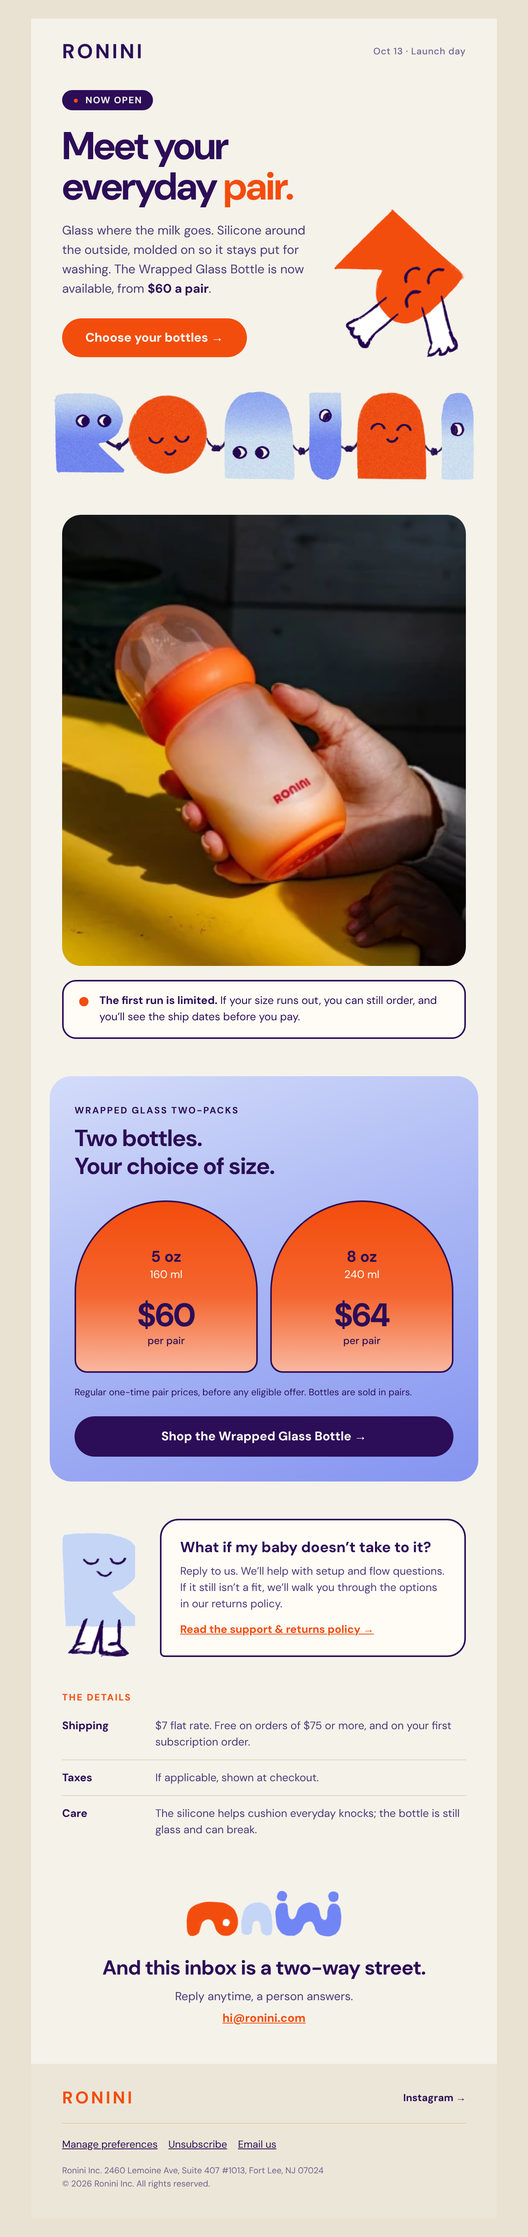
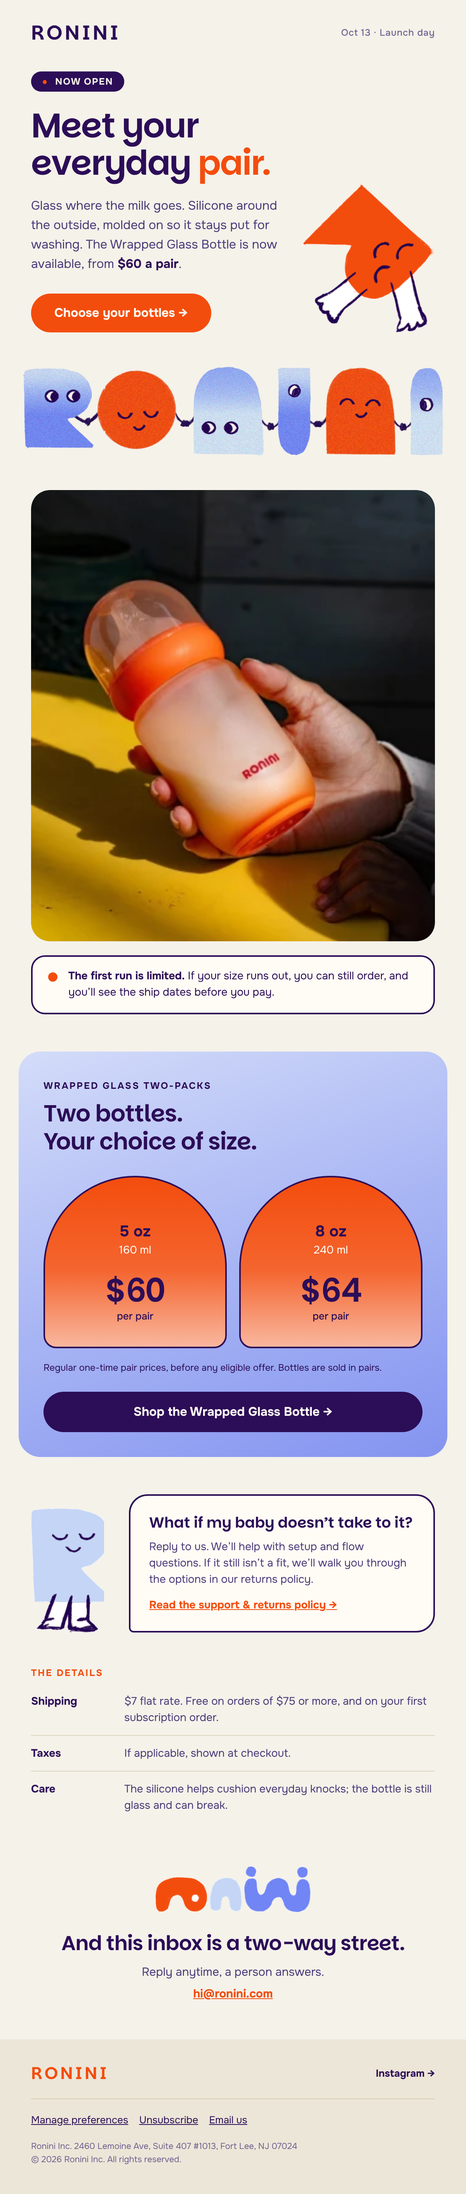
Switch 06-open EDMs to brand fonts and refresh renders after Figma handoff
Claude-Session: https://claude.ai/code/session_01THV4qqvSeac34UZQhCRjNN

diff --git a/edm/06-open/index.html b/edm/06-open/index.html
@@ -9,7 +9,7 @@
 <meta name="supported-color-schemes" content="light">
 <title>Meet your everyday pair</title>
 <!--[if mso]><noscript><xml><o:OfficeDocumentSettings><o:PixelsPerInch>96</o:PixelsPerInch></o:OfficeDocumentSettings></xml></noscript><![endif]-->
-<link href="https://fonts.googleapis.com/css2?family=DM+Sans:opsz,wght@9..40,400;9..40,500;9..40,700&display=swap" rel="stylesheet">
+<link href="https://fonts.googleapis.com/css2?family=Onest:wght@400;500;600;700&family=Parkinsans:wght@500;600;700&display=swap" rel="stylesheet">
 <style>
   /* Palette: navy #2C0D57 · orange #F34D0D · periwinkle #7084F4 · sky #C6D6F7 · cream #F5F2EA · paper #FFFCF6 */
   body, table, td, a { -webkit-text-size-adjust: 100%; -ms-text-size-adjust: 100%; }
@@ -42,17 +42,17 @@
 <table role="presentation" width="100%" cellpadding="0" cellspacing="0" border="0" style="background:#E9E2D2;">
 <tr><td align="center" style="padding:24px 0;">
 
-<table role="presentation" class="container" width="600" cellpadding="0" cellspacing="0" border="0" style="width:600px;background:#F5F2EA;font-family:'DM Sans',Helvetica,Arial,sans-serif;color:#2C0D57;">
+<table role="presentation" class="container" width="600" cellpadding="0" cellspacing="0" border="0" style="width:600px;background:#F5F2EA;font-family:'Onest',Helvetica,Arial,sans-serif;color:#2C0D57;">
 
   <!-- ============ HEADER ============ -->
   <tr>
     <td class="px" style="padding:28px 40px 0 40px;">
       <table role="presentation" width="100%" cellpadding="0" cellspacing="0" border="0">
         <tr>
-          <td align="left" style="font-family:'DM Sans',Helvetica,Arial,sans-serif;font-size:26px;line-height:28px;font-weight:700;letter-spacing:3px;color:#2C0D57;">
+          <td align="left" style="font-family:'Parkinsans',Helvetica,Arial,sans-serif;font-size:26px;line-height:28px;font-weight:600;letter-spacing:3px;color:#2C0D57;">
             <a href="[[HOME_URL]]" style="color:#2C0D57;text-decoration:none;">RONINI</a>
           </td>
-          <td align="right" style="font-family:'DM Sans',Helvetica,Arial,sans-serif;font-size:12px;line-height:16px;font-weight:500;color:#6E6390;letter-spacing:0.5px;">
+          <td align="right" style="font-family:'Onest',Helvetica,Arial,sans-serif;font-size:12px;line-height:16px;font-weight:500;color:#6E6390;letter-spacing:0.5px;">
             Oct 13 &middot; Launch day
           </td>
         </tr>
@@ -69,22 +69,22 @@
             <!-- pill -->
             <table role="presentation" cellpadding="0" cellspacing="0" border="0">
               <tr>
-                <td style="background:#2C0D57;border-radius:999px;padding:6px 14px;font-family:'DM Sans',Helvetica,Arial,sans-serif;font-size:12px;line-height:14px;font-weight:700;letter-spacing:1px;text-transform:uppercase;color:#F5F2EA;">
+                <td style="background:#2C0D57;border-radius:999px;padding:6px 14px;font-family:'Onest',Helvetica,Arial,sans-serif;font-size:12px;line-height:14px;font-weight:700;letter-spacing:1px;text-transform:uppercase;color:#F5F2EA;">
                   <span style="color:#F34D0D;">&#9679;</span>&nbsp; Now open
                 </td>
               </tr>
             </table>
-            <h1 class="h1" style="margin:20px 0 0 0;font-family:'DM Sans',Helvetica,Arial,sans-serif;font-size:50px;line-height:52px;font-weight:700;letter-spacing:-1.5px;color:#2C0D57;">
+            <h1 class="h1" style="margin:20px 0 0 0;font-family:'Parkinsans',Helvetica,Arial,sans-serif;font-size:44px;line-height:48px;font-weight:600;letter-spacing:-1.2px;color:#2C0D57;">
               Meet your<br>everyday <span style="color:#F34D0D;">pair.</span>
             </h1>
-            <p style="margin:18px 0 0 0;font-family:'DM Sans',Helvetica,Arial,sans-serif;font-size:16px;line-height:25px;color:#4B3A78;">
+            <p style="margin:18px 0 0 0;font-family:'Onest',Helvetica,Arial,sans-serif;font-size:16px;line-height:25px;color:#4B3A78;">
               Glass where the milk goes. Silicone around the outside, molded on so it stays put for washing. The Wrapped Glass Bottle is now available, from <strong style="color:#2C0D57;">$60 a pair</strong>.
             </p>
             <!-- CTA -->
             <table role="presentation" cellpadding="0" cellspacing="0" border="0" style="margin-top:26px;">
               <tr>
                 <td align="center" bgcolor="#F34D0D" style="border-radius:999px;">
-                  <a href="[[SHOP_URL]]" style="display:inline-block;padding:16px 30px;font-family:'DM Sans',Helvetica,Arial,sans-serif;font-size:16px;line-height:18px;font-weight:700;color:#FFFCF6;text-decoration:none;border-radius:999px;">Choose your bottles &rarr;</a>
+                  <a href="[[SHOP_URL]]" style="display:inline-block;padding:16px 30px;font-family:'Onest',Helvetica,Arial,sans-serif;font-size:16px;line-height:18px;font-weight:700;color:#FFFCF6;text-decoration:none;border-radius:999px;">Choose your bottles &rarr;</a>
                 </td>
               </tr>
             </table>
@@ -110,7 +110,7 @@
       <table role="presentation" width="100%" cellpadding="0" cellspacing="0" border="0">
         <tr>
           <td style="border-radius:24px;overflow:hidden;background:#C6D6F7;line-height:0;font-size:0;">
-            <a href="[[SHOP_URL]]"><img src="[[PRODUCT_IMAGE_URL]]" width="520" alt="A hand holding the Ronini Wrapped Glass Bottle with its orange silicone sleeve" class="full" style="width:520px;max-width:100%;height:auto;border-radius:24px;font-family:'DM Sans',Helvetica,Arial,sans-serif;font-size:14px;line-height:20px;color:#2C0D57;"></a>
+            <a href="[[SHOP_URL]]"><img src="[[PRODUCT_IMAGE_URL]]" width="520" alt="A hand holding the Ronini Wrapped Glass Bottle with its orange silicone sleeve" class="full" style="width:520px;max-width:100%;height:auto;border-radius:24px;font-family:'Onest',Helvetica,Arial,sans-serif;font-size:14px;line-height:20px;color:#2C0D57;"></a>
           </td>
         </tr>
       </table>
@@ -125,7 +125,7 @@
           <td width="14" valign="top" style="padding:20px 0 0 20px;">
             <div style="width:12px;height:12px;border-radius:12px;background:#F34D0D;font-size:0;line-height:0;">&nbsp;</div>
           </td>
-          <td valign="top" style="padding:14px 20px 16px 12px;font-family:'DM Sans',Helvetica,Arial,sans-serif;font-size:14px;line-height:21px;color:#2C0D57;">
+          <td valign="top" style="padding:14px 20px 16px 12px;font-family:'Onest',Helvetica,Arial,sans-serif;font-size:14px;line-height:21px;color:#2C0D57;">
             <strong>The first run is limited.</strong> If your size runs out, you can still order, and you&rsquo;ll see the ship dates before you pay.
           </td>
         </tr>
@@ -139,8 +139,8 @@
       <table role="presentation" width="100%" cellpadding="0" cellspacing="0" border="0" style="background-color:#A9B6F4;background-image:linear-gradient(160deg,#D3DCF9 0%,#A9B6F4 50%,#8494F0 100%);border-radius:28px;">
         <tr>
           <td class="panel" style="padding:36px 32px 32px 32px;">
-            <p style="margin:0;font-family:'DM Sans',Helvetica,Arial,sans-serif;font-size:12px;line-height:16px;font-weight:700;letter-spacing:1.5px;text-transform:uppercase;color:#2C0D57;">Wrapped Glass two-packs</p>
-            <h2 class="h2" style="margin:10px 0 0 0;font-family:'DM Sans',Helvetica,Arial,sans-serif;font-size:30px;line-height:36px;font-weight:700;letter-spacing:-0.6px;color:#2C0D57;">Two bottles.<br>Your choice of size.</h2>
+            <p style="margin:0;font-family:'Onest',Helvetica,Arial,sans-serif;font-size:12px;line-height:16px;font-weight:700;letter-spacing:1.5px;text-transform:uppercase;color:#2C0D57;">Wrapped Glass two-packs</p>
+            <h2 class="h2" style="margin:10px 0 0 0;font-family:'Parkinsans',Helvetica,Arial,sans-serif;font-size:30px;line-height:36px;font-weight:600;letter-spacing:-0.6px;color:#2C0D57;">Two bottles.<br>Your choice of size.</h2>
 
             <table role="presentation" width="100%" cellpadding="0" cellspacing="0" border="0" style="margin-top:26px;">
               <tr>
@@ -149,10 +149,10 @@
                   <table role="presentation" width="100%" cellpadding="0" cellspacing="0" border="0" style="background-color:#F34D0D;background-image:linear-gradient(180deg,#F34D0D 0%,#F4652F 55%,#F9B79E 100%);border:2px solid #2C0D57;border-radius:130px 130px 18px 18px;">
                     <tr>
                       <td align="center" style="padding:58px 16px 30px 16px;">
-                        <p style="margin:0;font-family:'DM Sans',Helvetica,Arial,sans-serif;font-size:20px;line-height:24px;font-weight:700;color:#2C0D57;">5 oz</p>
-                        <p style="margin:2px 0 0 0;font-family:'DM Sans',Helvetica,Arial,sans-serif;font-size:14px;line-height:18px;color:#FFFCF6;">160 ml</p>
-                        <p style="margin:22px 0 0 0;font-family:'DM Sans',Helvetica,Arial,sans-serif;font-size:42px;line-height:44px;font-weight:700;letter-spacing:-1.2px;color:#2C0D57;">$60</p>
-                        <p style="margin:2px 0 0 0;font-family:'DM Sans',Helvetica,Arial,sans-serif;font-size:13px;line-height:18px;font-weight:500;color:#2C0D57;">per pair</p>
+                        <p style="margin:0;font-family:'Onest',Helvetica,Arial,sans-serif;font-size:20px;line-height:24px;font-weight:700;color:#2C0D57;">5 oz</p>
+                        <p style="margin:2px 0 0 0;font-family:'Onest',Helvetica,Arial,sans-serif;font-size:14px;line-height:18px;color:#FFFCF6;">160 ml</p>
+                        <p style="margin:22px 0 0 0;font-family:'Parkinsans',Helvetica,Arial,sans-serif;font-size:42px;line-height:44px;font-weight:600;letter-spacing:-1.2px;color:#2C0D57;">$60</p>
+                        <p style="margin:2px 0 0 0;font-family:'Onest',Helvetica,Arial,sans-serif;font-size:13px;line-height:18px;font-weight:500;color:#2C0D57;">per pair</p>
                       </td>
                     </tr>
                   </table>
@@ -162,10 +162,10 @@
                   <table role="presentation" width="100%" cellpadding="0" cellspacing="0" border="0" style="background-color:#F34D0D;background-image:linear-gradient(180deg,#F34D0D 0%,#F4652F 55%,#F9B79E 100%);border:2px solid #2C0D57;border-radius:130px 130px 18px 18px;">
                     <tr>
                       <td align="center" style="padding:58px 16px 30px 16px;">
-                        <p style="margin:0;font-family:'DM Sans',Helvetica,Arial,sans-serif;font-size:20px;line-height:24px;font-weight:700;color:#2C0D57;">8 oz</p>
-                        <p style="margin:2px 0 0 0;font-family:'DM Sans',Helvetica,Arial,sans-serif;font-size:14px;line-height:18px;color:#FFFCF6;">240 ml</p>
-                        <p style="margin:22px 0 0 0;font-family:'DM Sans',Helvetica,Arial,sans-serif;font-size:42px;line-height:44px;font-weight:700;letter-spacing:-1.2px;color:#2C0D57;">$64</p>
-                        <p style="margin:2px 0 0 0;font-family:'DM Sans',Helvetica,Arial,sans-serif;font-size:13px;line-height:18px;font-weight:500;color:#2C0D57;">per pair</p>
+                        <p style="margin:0;font-family:'Onest',Helvetica,Arial,sans-serif;font-size:20px;line-height:24px;font-weight:700;color:#2C0D57;">8 oz</p>
+                        <p style="margin:2px 0 0 0;font-family:'Onest',Helvetica,Arial,sans-serif;font-size:14px;line-height:18px;color:#FFFCF6;">240 ml</p>
+                        <p style="margin:22px 0 0 0;font-family:'Parkinsans',Helvetica,Arial,sans-serif;font-size:42px;line-height:44px;font-weight:600;letter-spacing:-1.2px;color:#2C0D57;">$64</p>
+                        <p style="margin:2px 0 0 0;font-family:'Onest',Helvetica,Arial,sans-serif;font-size:13px;line-height:18px;font-weight:500;color:#2C0D57;">per pair</p>
                       </td>
                     </tr>
                   </table>
@@ -173,13 +173,13 @@
               </tr>
             </table>
 
-            <p style="margin:16px 0 0 0;font-family:'DM Sans',Helvetica,Arial,sans-serif;font-size:12px;line-height:18px;color:#2C0D57;">
+            <p style="margin:16px 0 0 0;font-family:'Onest',Helvetica,Arial,sans-serif;font-size:12px;line-height:18px;color:#2C0D57;">
               Regular one-time pair prices, before any eligible offer. Bottles are sold in pairs.
             </p>
             <table role="presentation" cellpadding="0" cellspacing="0" border="0" width="100%" style="margin-top:22px;">
               <tr>
                 <td align="center" bgcolor="#2C0D57" style="border-radius:999px;">
-                  <a href="[[SHOP_URL]]" style="display:block;padding:17px 24px;font-family:'DM Sans',Helvetica,Arial,sans-serif;font-size:16px;line-height:18px;font-weight:700;color:#FFFCF6;text-decoration:none;border-radius:999px;">Shop the Wrapped Glass Bottle &rarr;</a>
+                  <a href="[[SHOP_URL]]" style="display:block;padding:17px 24px;font-family:'Onest',Helvetica,Arial,sans-serif;font-size:16px;line-height:18px;font-weight:700;color:#FFFCF6;text-decoration:none;border-radius:999px;">Shop the Wrapped Glass Bottle &rarr;</a>
                 </td>
               </tr>
             </table>
@@ -201,11 +201,11 @@
             <table role="presentation" width="100%" cellpadding="0" cellspacing="0" border="0" style="background:#FFFCF6;border:2px solid #2C0D57;border-radius:24px 24px 24px 6px;">
               <tr>
                 <td style="padding:22px 24px 24px 24px;">
-                  <h3 style="margin:0;font-family:'DM Sans',Helvetica,Arial,sans-serif;font-size:19px;line-height:25px;font-weight:700;color:#2C0D57;">What if my baby doesn&rsquo;t take to it?</h3>
-                  <p style="margin:8px 0 0 0;font-family:'DM Sans',Helvetica,Arial,sans-serif;font-size:14px;line-height:21px;color:#4B3A78;">
+                  <h3 style="margin:0;font-family:'Parkinsans',Helvetica,Arial,sans-serif;font-size:19px;line-height:25px;font-weight:600;color:#2C0D57;">What if my baby doesn&rsquo;t take to it?</h3>
+                  <p style="margin:8px 0 0 0;font-family:'Onest',Helvetica,Arial,sans-serif;font-size:14px;line-height:21px;color:#4B3A78;">
                     Reply to us. We&rsquo;ll help with setup and flow questions. If it still isn&rsquo;t a fit, we&rsquo;ll walk you through the options in our returns policy.
                   </p>
-                  <p style="margin:12px 0 0 0;font-family:'DM Sans',Helvetica,Arial,sans-serif;font-size:14px;line-height:20px;font-weight:700;">
+                  <p style="margin:12px 0 0 0;font-family:'Onest',Helvetica,Arial,sans-serif;font-size:14px;line-height:20px;font-weight:700;">
                     <a href="[[RETURNS_URL]]" style="color:#F34D0D;text-decoration:underline;">Read the support &amp; returns policy &rarr;</a>
                   </p>
                 </td>
@@ -220,8 +220,8 @@
   <!-- ============ DETAILS ============ -->
   <tr>
     <td class="px" style="padding:44px 40px 0 40px;">
-      <p style="margin:0 0 6px 0;font-family:'DM Sans',Helvetica,Arial,sans-serif;font-size:12px;line-height:16px;font-weight:700;letter-spacing:1.5px;text-transform:uppercase;color:#F34D0D;">The details</p>
-      <table role="presentation" width="100%" cellpadding="0" cellspacing="0" border="0" style="font-family:'DM Sans',Helvetica,Arial,sans-serif;font-size:14px;line-height:21px;color:#2C0D57;">
+      <p style="margin:0 0 6px 0;font-family:'Onest',Helvetica,Arial,sans-serif;font-size:12px;line-height:16px;font-weight:700;letter-spacing:1.5px;text-transform:uppercase;color:#F34D0D;">The details</p>
+      <table role="presentation" width="100%" cellpadding="0" cellspacing="0" border="0" style="font-family:'Onest',Helvetica,Arial,sans-serif;font-size:14px;line-height:21px;color:#2C0D57;">
         <tr>
           <td width="120" valign="top" style="padding:12px 0;border-bottom:1px solid #DDD4C0;font-weight:700;">Shipping</td>
           <td valign="top" style="padding:12px 0;border-bottom:1px solid #DDD4C0;color:#4B3A78;">$7 flat rate. Free on orders of $75 or more, and on your first subscription order.</td>
@@ -242,11 +242,11 @@
   <tr>
     <td class="px" align="center" style="padding:56px 40px 48px 40px;">
       <img src="assets/bubble-wordmark.png" width="200" height="59" alt="" style="width:200px;height:59px;margin:0 auto;">
-      <h3 class="h2" style="margin:24px 0 0 0;font-family:'DM Sans',Helvetica,Arial,sans-serif;font-size:26px;line-height:32px;font-weight:700;letter-spacing:-0.5px;color:#2C0D57;">And this inbox is a two-way street.</h3>
-      <p style="margin:10px 0 0 0;font-family:'DM Sans',Helvetica,Arial,sans-serif;font-size:15px;line-height:22px;color:#4B3A78;">
+      <h3 class="h2" style="margin:24px 0 0 0;font-family:'Parkinsans',Helvetica,Arial,sans-serif;font-size:26px;line-height:32px;font-weight:600;letter-spacing:-0.5px;color:#2C0D57;">And this inbox is a two-way street.</h3>
+      <p style="margin:10px 0 0 0;font-family:'Onest',Helvetica,Arial,sans-serif;font-size:15px;line-height:22px;color:#4B3A78;">
         Reply anytime, a person answers.
       </p>
-      <p style="margin:6px 0 0 0;font-family:'DM Sans',Helvetica,Arial,sans-serif;font-size:15px;line-height:22px;font-weight:700;">
+      <p style="margin:6px 0 0 0;font-family:'Onest',Helvetica,Arial,sans-serif;font-size:15px;line-height:22px;font-weight:700;">
         <a href="mailto:hi@ronini.com" style="color:#F34D0D;text-decoration:underline;">hi@ronini.com</a>
       </p>
     </td>
@@ -257,8 +257,8 @@
     <td class="px" style="padding:32px 40px 36px 40px;background:#ECE6D8;">
       <table role="presentation" width="100%" cellpadding="0" cellspacing="0" border="0">
         <tr>
-          <td align="left" style="font-family:'DM Sans',Helvetica,Arial,sans-serif;font-size:22px;line-height:24px;font-weight:700;letter-spacing:3px;color:#F34D0D;">RONINI</td>
-          <td align="right" style="font-family:'DM Sans',Helvetica,Arial,sans-serif;font-size:13px;line-height:16px;font-weight:700;">
+          <td align="left" style="font-family:'Parkinsans',Helvetica,Arial,sans-serif;font-size:22px;line-height:24px;font-weight:600;letter-spacing:3px;color:#F34D0D;">RONINI</td>
+          <td align="right" style="font-family:'Onest',Helvetica,Arial,sans-serif;font-size:13px;line-height:16px;font-weight:700;">
             <a href="[[INSTAGRAM_URL]]" style="color:#2C0D57;text-decoration:none;">Instagram &rarr;</a>
           </td>
         </tr>
@@ -266,14 +266,14 @@
           <td colspan="2" style="padding-top:20px;border-bottom:1px solid #D6CCB6;font-size:0;line-height:0;">&nbsp;</td>
         </tr>
         <tr>
-          <td colspan="2" style="padding-top:18px;font-family:'DM Sans',Helvetica,Arial,sans-serif;font-size:13px;line-height:18px;">
+          <td colspan="2" style="padding-top:18px;font-family:'Onest',Helvetica,Arial,sans-serif;font-size:13px;line-height:18px;">
             <a href="[[PREFERENCES_URL]]" style="color:#2C0D57;text-decoration:underline;">Manage preferences</a>&nbsp;&nbsp;&nbsp;
             <a href="[[UNSUBSCRIBE_URL]]" style="color:#2C0D57;text-decoration:underline;">Unsubscribe</a>&nbsp;&nbsp;&nbsp;
             <a href="mailto:hi@ronini.com" style="color:#2C0D57;text-decoration:underline;">Email us</a>
           </td>
         </tr>
         <tr>
-          <td colspan="2" style="padding-top:16px;font-family:'DM Sans',Helvetica,Arial,sans-serif;font-size:11px;line-height:17px;color:#6E6390;">
+          <td colspan="2" style="padding-top:16px;font-family:'Onest',Helvetica,Arial,sans-serif;font-size:11px;line-height:17px;color:#6E6390;">
             Ronini Inc. 2460 Lemoine Ave, Suite 407 #1013, Fort Lee, NJ 07024<br>
             &copy; 2026 Ronini Inc. All rights reserved.
           </td>

diff --git a/edm/06-open-navy/index.html b/edm/06-open-navy/index.html
@@ -9,7 +9,7 @@
 <meta name="supported-color-schemes" content="light">
 <title>Meet your everyday pair</title>
 <!--[if mso]><noscript><xml><o:OfficeDocumentSettings><o:PixelsPerInch>96</o:PixelsPerInch></o:OfficeDocumentSettings></xml></noscript><![endif]-->
-<link href="https://fonts.googleapis.com/css2?family=DM+Sans:opsz,wght@9..40,400;9..40,500;9..40,700&display=swap" rel="stylesheet">
+<link href="https://fonts.googleapis.com/css2?family=Onest:wght@400;500;600;700&family=Parkinsans:wght@500;600;700&display=swap" rel="stylesheet">
 <style>
   /* Palette: navy #2C0D57 · orange #F34D0D · periwinkle #7084F4 · sky #C6D6F7 · cream #F7F3E8 · paper #FFFCF5 */
   body, table, td, a { -webkit-text-size-adjust: 100%; -ms-text-size-adjust: 100%; }
@@ -40,17 +40,17 @@
 <table role="presentation" width="100%" cellpadding="0" cellspacing="0" border="0" style="background:#EDE7D8;">
 <tr><td align="center" style="padding:24px 0;">
 
-<table role="presentation" class="container" width="600" cellpadding="0" cellspacing="0" border="0" style="width:600px;background:#FFFCF5;font-family:'DM Sans',Helvetica,Arial,sans-serif;color:#2C0D57;">
+<table role="presentation" class="container" width="600" cellpadding="0" cellspacing="0" border="0" style="width:600px;background:#FFFCF5;font-family:'Onest',Helvetica,Arial,sans-serif;color:#2C0D57;">
 
   <!-- ============ HEADER ============ -->
   <tr>
     <td class="px" style="padding:28px 40px 24px 40px;background:#2C0D57;">
       <table role="presentation" width="100%" cellpadding="0" cellspacing="0" border="0">
         <tr>
-          <td align="left" style="font-family:'DM Sans',Helvetica,Arial,sans-serif;font-size:26px;line-height:28px;font-weight:700;letter-spacing:3px;color:#F34D0D;">
+          <td align="left" style="font-family:'Parkinsans',Helvetica,Arial,sans-serif;font-size:26px;line-height:28px;font-weight:600;letter-spacing:3px;color:#F34D0D;">
             <a href="[[HOME_URL]]" style="color:#F34D0D;text-decoration:none;">RONINI</a>
           </td>
-          <td align="right" style="font-family:'DM Sans',Helvetica,Arial,sans-serif;font-size:12px;line-height:16px;font-weight:500;color:#C6D6F7;letter-spacing:0.5px;">
+          <td align="right" style="font-family:'Onest',Helvetica,Arial,sans-serif;font-size:12px;line-height:16px;font-weight:500;color:#C6D6F7;letter-spacing:0.5px;">
             Oct 13 &middot; Launch day
           </td>
         </tr>
@@ -67,22 +67,22 @@
             <!-- pill -->
             <table role="presentation" cellpadding="0" cellspacing="0" border="0">
               <tr>
-                <td style="background:#F34D0D;border-radius:999px;padding:6px 14px;font-family:'DM Sans',Helvetica,Arial,sans-serif;font-size:12px;line-height:14px;font-weight:700;letter-spacing:1px;text-transform:uppercase;color:#FFFCF5;">
+                <td style="background:#F34D0D;border-radius:999px;padding:6px 14px;font-family:'Onest',Helvetica,Arial,sans-serif;font-size:12px;line-height:14px;font-weight:700;letter-spacing:1px;text-transform:uppercase;color:#FFFCF5;">
                   &#9679;&nbsp; Now open
                 </td>
               </tr>
             </table>
-            <h1 class="h1" style="margin:22px 0 0 0;font-family:'DM Sans',Helvetica,Arial,sans-serif;font-size:50px;line-height:52px;font-weight:700;letter-spacing:-1.5px;color:#FFFCF5;">
+            <h1 class="h1" style="margin:22px 0 0 0;font-family:'Parkinsans',Helvetica,Arial,sans-serif;font-size:50px;line-height:52px;font-weight:600;letter-spacing:-1.5px;color:#FFFCF5;">
               Meet your<br>everyday <span style="color:#7084F4;">pair.</span>
             </h1>
-            <p style="margin:20px 0 0 0;font-family:'DM Sans',Helvetica,Arial,sans-serif;font-size:16px;line-height:25px;color:#C6D6F7;">
+            <p style="margin:20px 0 0 0;font-family:'Onest',Helvetica,Arial,sans-serif;font-size:16px;line-height:25px;color:#C6D6F7;">
               Glass where the milk goes. Silicone around the outside, molded on so it stays put for washing. The Wrapped Glass Bottle is now available, from <strong style="color:#FFFCF5;">$60 a pair</strong>.
             </p>
             <!-- CTA -->
             <table role="presentation" cellpadding="0" cellspacing="0" border="0" style="margin-top:28px;">
               <tr>
                 <td align="center" bgcolor="#F34D0D" style="border-radius:999px;">
-                  <a href="[[SHOP_URL]]" style="display:inline-block;padding:16px 30px;font-family:'DM Sans',Helvetica,Arial,sans-serif;font-size:16px;line-height:18px;font-weight:700;color:#FFFCF5;text-decoration:none;border-radius:999px;">Choose your bottles &rarr;</a>
+                  <a href="[[SHOP_URL]]" style="display:inline-block;padding:16px 30px;font-family:'Onest',Helvetica,Arial,sans-serif;font-size:16px;line-height:18px;font-weight:700;color:#FFFCF5;text-decoration:none;border-radius:999px;">Choose your bottles &rarr;</a>
                 </td>
               </tr>
             </table>
@@ -108,7 +108,7 @@
       <table role="presentation" width="100%" cellpadding="0" cellspacing="0" border="0">
         <tr>
           <td style="border-radius:24px;overflow:hidden;background:#C6D6F7;line-height:0;font-size:0;">
-            <a href="[[SHOP_URL]]"><img src="[[PRODUCT_IMAGE_URL]]" width="520" alt="A hand holding the Ronini Wrapped Glass Bottle with its orange silicone sleeve" class="full" style="width:520px;max-width:100%;height:auto;border-radius:24px;font-family:'DM Sans',Helvetica,Arial,sans-serif;font-size:14px;line-height:20px;color:#2C0D57;"></a>
+            <a href="[[SHOP_URL]]"><img src="[[PRODUCT_IMAGE_URL]]" width="520" alt="A hand holding the Ronini Wrapped Glass Bottle with its orange silicone sleeve" class="full" style="width:520px;max-width:100%;height:auto;border-radius:24px;font-family:'Onest',Helvetica,Arial,sans-serif;font-size:14px;line-height:20px;color:#2C0D57;"></a>
           </td>
         </tr>
       </table>
@@ -123,7 +123,7 @@
           <td width="44" valign="top" style="padding:18px 0 18px 18px;">
             <img src="assets/tile-arch.png" width="28" height="28" alt="" style="width:28px;height:28px;border-radius:6px;">
           </td>
-          <td valign="top" style="padding:16px 20px 16px 14px;font-family:'DM Sans',Helvetica,Arial,sans-serif;font-size:14px;line-height:21px;color:#2C0D57;">
+          <td valign="top" style="padding:16px 20px 16px 14px;font-family:'Onest',Helvetica,Arial,sans-serif;font-size:14px;line-height:21px;color:#2C0D57;">
             <strong>The first run is limited.</strong> If your size runs out, you can still order, and you&rsquo;ll see the ship dates before you pay.
           </td>
         </tr>
@@ -134,8 +134,8 @@
   <!-- ============ SIZES ============ -->
   <tr>
     <td class="px" style="padding:52px 40px 0 40px;">
-      <p style="margin:0;font-family:'DM Sans',Helvetica,Arial,sans-serif;font-size:12px;line-height:16px;font-weight:700;letter-spacing:1.5px;text-transform:uppercase;color:#F34D0D;">Wrapped Glass two-packs</p>
-      <h2 class="h2" style="margin:10px 0 0 0;font-family:'DM Sans',Helvetica,Arial,sans-serif;font-size:30px;line-height:36px;font-weight:700;letter-spacing:-0.6px;color:#2C0D57;">Two bottles. Your choice of size.</h2>
+      <p style="margin:0;font-family:'Onest',Helvetica,Arial,sans-serif;font-size:12px;line-height:16px;font-weight:700;letter-spacing:1.5px;text-transform:uppercase;color:#F34D0D;">Wrapped Glass two-packs</p>
+      <h2 class="h2" style="margin:10px 0 0 0;font-family:'Parkinsans',Helvetica,Arial,sans-serif;font-size:30px;line-height:36px;font-weight:600;letter-spacing:-0.6px;color:#2C0D57;">Two bottles. Your choice of size.</h2>
     </td>
   </tr>
   <tr>
@@ -148,8 +148,8 @@
               <tr>
                 <td style="padding:22px 22px 24px 22px;">
                   <img src="assets/tile-circle.png" width="56" height="56" alt="" style="width:56px;height:56px;border-radius:12px;">
-                  <p style="margin:18px 0 0 0;font-family:'DM Sans',Helvetica,Arial,sans-serif;font-size:20px;line-height:24px;font-weight:700;color:#2C0D57;">5 oz <span style="font-weight:400;color:#4B3A78;">/ 160 ml</span></p>
-                  <p style="margin:18px 0 0 0;font-family:'DM Sans',Helvetica,Arial,sans-serif;font-size:34px;line-height:36px;font-weight:700;letter-spacing:-1px;color:#2C0D57;">$60<span style="font-size:14px;font-weight:500;letter-spacing:0;"> / pair</span></p>
+                  <p style="margin:18px 0 0 0;font-family:'Onest',Helvetica,Arial,sans-serif;font-size:20px;line-height:24px;font-weight:700;color:#2C0D57;">5 oz <span style="font-weight:400;color:#4B3A78;">/ 160 ml</span></p>
+                  <p style="margin:18px 0 0 0;font-family:'Parkinsans',Helvetica,Arial,sans-serif;font-size:34px;line-height:36px;font-weight:600;letter-spacing:-1px;color:#2C0D57;">$60<span style="font-size:14px;font-weight:500;letter-spacing:0;"> / pair</span></p>
                 </td>
               </tr>
             </table>
@@ -160,8 +160,8 @@
               <tr>
                 <td style="padding:22px 22px 24px 22px;">
                   <img src="assets/tile-pair.png" width="56" height="56" alt="" style="width:56px;height:56px;border-radius:12px;">
-                  <p style="margin:18px 0 0 0;font-family:'DM Sans',Helvetica,Arial,sans-serif;font-size:20px;line-height:24px;font-weight:700;color:#FFFCF5;">8 oz <span style="font-weight:400;color:#E4EAFC;">/ 240 ml</span></p>
-                  <p style="margin:18px 0 0 0;font-family:'DM Sans',Helvetica,Arial,sans-serif;font-size:34px;line-height:36px;font-weight:700;letter-spacing:-1px;color:#FFFCF5;">$64<span style="font-size:14px;font-weight:500;letter-spacing:0;"> / pair</span></p>
+                  <p style="margin:18px 0 0 0;font-family:'Onest',Helvetica,Arial,sans-serif;font-size:20px;line-height:24px;font-weight:700;color:#FFFCF5;">8 oz <span style="font-weight:400;color:#E4EAFC;">/ 240 ml</span></p>
+                  <p style="margin:18px 0 0 0;font-family:'Parkinsans',Helvetica,Arial,sans-serif;font-size:34px;line-height:36px;font-weight:600;letter-spacing:-1px;color:#FFFCF5;">$64<span style="font-size:14px;font-weight:500;letter-spacing:0;"> / pair</span></p>
                 </td>
               </tr>
             </table>
@@ -171,7 +171,7 @@
     </td>
   </tr>
   <tr>
-    <td class="px" style="padding:14px 40px 0 40px;font-family:'DM Sans',Helvetica,Arial,sans-serif;font-size:12px;line-height:18px;color:#6E6390;">
+    <td class="px" style="padding:14px 40px 0 40px;font-family:'Onest',Helvetica,Arial,sans-serif;font-size:12px;line-height:18px;color:#6E6390;">
       Regular one-time pair prices, before any eligible offer. Bottles are sold in pairs.
     </td>
   </tr>
@@ -180,7 +180,7 @@
       <table role="presentation" cellpadding="0" cellspacing="0" border="0" width="100%">
         <tr>
           <td align="center" bgcolor="#2C0D57" style="border-radius:999px;">
-            <a href="[[SHOP_URL]]" style="display:block;padding:17px 30px;font-family:'DM Sans',Helvetica,Arial,sans-serif;font-size:16px;line-height:18px;font-weight:700;color:#FFFCF5;text-decoration:none;border-radius:999px;">Shop the Wrapped Glass Bottle &rarr;</a>
+            <a href="[[SHOP_URL]]" style="display:block;padding:17px 30px;font-family:'Onest',Helvetica,Arial,sans-serif;font-size:16px;line-height:18px;font-weight:700;color:#FFFCF5;text-decoration:none;border-radius:999px;">Shop the Wrapped Glass Bottle &rarr;</a>
           </td>
         </tr>
       </table>
@@ -196,11 +196,11 @@
             <img src="assets/shape-rb.png" width="96" height="98" alt="" style="width:96px;height:98px;border-radius:14px;">
           </td>
           <td valign="top" style="padding:24px 24px 24px 20px;">
-            <h3 style="margin:0;font-family:'DM Sans',Helvetica,Arial,sans-serif;font-size:19px;line-height:25px;font-weight:700;color:#2C0D57;">What if my baby doesn&rsquo;t take to it?</h3>
-            <p style="margin:8px 0 0 0;font-family:'DM Sans',Helvetica,Arial,sans-serif;font-size:14px;line-height:21px;color:#4B3A78;">
+            <h3 style="margin:0;font-family:'Parkinsans',Helvetica,Arial,sans-serif;font-size:19px;line-height:25px;font-weight:600;color:#2C0D57;">What if my baby doesn&rsquo;t take to it?</h3>
+            <p style="margin:8px 0 0 0;font-family:'Onest',Helvetica,Arial,sans-serif;font-size:14px;line-height:21px;color:#4B3A78;">
               Reply to us. We&rsquo;ll help with setup and flow questions. If it still isn&rsquo;t a fit, we&rsquo;ll walk you through the options in our returns policy.
             </p>
-            <p style="margin:12px 0 0 0;font-family:'DM Sans',Helvetica,Arial,sans-serif;font-size:14px;line-height:20px;font-weight:700;">
+            <p style="margin:12px 0 0 0;font-family:'Onest',Helvetica,Arial,sans-serif;font-size:14px;line-height:20px;font-weight:700;">
               <a href="[[RETURNS_URL]]" style="color:#F34D0D;text-decoration:underline;">Read the support &amp; returns policy &rarr;</a>
             </p>
           </td>
@@ -212,8 +212,8 @@
   <!-- ============ DETAILS ============ -->
   <tr>
     <td class="px" style="padding:40px 40px 0 40px;">
-      <p style="margin:0 0 6px 0;font-family:'DM Sans',Helvetica,Arial,sans-serif;font-size:12px;line-height:16px;font-weight:700;letter-spacing:1.5px;text-transform:uppercase;color:#F34D0D;">The details</p>
-      <table role="presentation" width="100%" cellpadding="0" cellspacing="0" border="0" style="font-family:'DM Sans',Helvetica,Arial,sans-serif;font-size:14px;line-height:21px;color:#2C0D57;">
+      <p style="margin:0 0 6px 0;font-family:'Onest',Helvetica,Arial,sans-serif;font-size:12px;line-height:16px;font-weight:700;letter-spacing:1.5px;text-transform:uppercase;color:#F34D0D;">The details</p>
+      <table role="presentation" width="100%" cellpadding="0" cellspacing="0" border="0" style="font-family:'Onest',Helvetica,Arial,sans-serif;font-size:14px;line-height:21px;color:#2C0D57;">
         <tr>
           <td width="130" valign="top" style="padding:12px 0;border-bottom:1px solid #E6DFCC;font-weight:700;">Shipping</td>
           <td valign="top" style="padding:12px 0;border-bottom:1px solid #E6DFCC;color:#4B3A78;">$7 flat rate. Free on orders of $75 or more, and on your first subscription order.</td>
@@ -236,8 +236,8 @@
       <table role="presentation" width="100%" cellpadding="0" cellspacing="0" border="0" style="background:#F7F3E8;">
         <tr>
           <td class="px" align="center" style="padding:40px 40px 0 40px;">
-            <h3 class="h2" style="margin:0;font-family:'DM Sans',Helvetica,Arial,sans-serif;font-size:26px;line-height:32px;font-weight:700;letter-spacing:-0.5px;color:#2C0D57;">And this inbox is a two-way street.</h3>
-            <p style="margin:10px 0 0 0;font-family:'DM Sans',Helvetica,Arial,sans-serif;font-size:15px;line-height:22px;color:#2C0D57;">
+            <h3 class="h2" style="margin:0;font-family:'Parkinsans',Helvetica,Arial,sans-serif;font-size:26px;line-height:32px;font-weight:600;letter-spacing:-0.5px;color:#2C0D57;">And this inbox is a two-way street.</h3>
+            <p style="margin:10px 0 0 0;font-family:'Onest',Helvetica,Arial,sans-serif;font-size:15px;line-height:22px;color:#2C0D57;">
               Reply anytime, a person answers. &nbsp;<a href="mailto:hi@ronini.com" style="color:#2C0D57;font-weight:700;text-decoration:underline;">hi@ronini.com</a>
             </p>
           </td>
@@ -256,8 +256,8 @@
     <td class="px" style="padding:36px 40px 40px 40px;background:#2C0D57;">
       <table role="presentation" width="100%" cellpadding="0" cellspacing="0" border="0">
         <tr>
-          <td align="left" style="font-family:'DM Sans',Helvetica,Arial,sans-serif;font-size:24px;line-height:26px;font-weight:700;letter-spacing:3px;color:#F34D0D;">RONINI</td>
-          <td align="right" style="font-family:'DM Sans',Helvetica,Arial,sans-serif;font-size:13px;line-height:16px;font-weight:700;">
+          <td align="left" style="font-family:'Parkinsans',Helvetica,Arial,sans-serif;font-size:24px;line-height:26px;font-weight:600;letter-spacing:3px;color:#F34D0D;">RONINI</td>
+          <td align="right" style="font-family:'Onest',Helvetica,Arial,sans-serif;font-size:13px;line-height:16px;font-weight:700;">
             <a href="[[INSTAGRAM_URL]]" style="color:#C6D6F7;text-decoration:none;">Instagram &rarr;</a>
           </td>
         </tr>
@@ -265,14 +265,14 @@
           <td colspan="2" style="padding-top:22px;border-bottom:1px solid #4A2F78;font-size:0;line-height:0;">&nbsp;</td>
         </tr>
         <tr>
-          <td colspan="2" style="padding-top:20px;font-family:'DM Sans',Helvetica,Arial,sans-serif;font-size:13px;line-height:18px;">
+          <td colspan="2" style="padding-top:20px;font-family:'Onest',Helvetica,Arial,sans-serif;font-size:13px;line-height:18px;">
             <a href="[[PREFERENCES_URL]]" style="color:#FFFCF5;text-decoration:underline;">Manage preferences</a>&nbsp;&nbsp;&nbsp;
             <a href="[[UNSUBSCRIBE_URL]]" style="color:#FFFCF5;text-decoration:underline;">Unsubscribe</a>&nbsp;&nbsp;&nbsp;
             <a href="mailto:hi@ronini.com" style="color:#FFFCF5;text-decoration:underline;">Email us</a>
           </td>
         </tr>
         <tr>
-          <td colspan="2" style="padding-top:18px;font-family:'DM Sans',Helvetica,Arial,sans-serif;font-size:11px;line-height:17px;color:#A79CC4;">
+          <td colspan="2" style="padding-top:18px;font-family:'Onest',Helvetica,Arial,sans-serif;font-size:11px;line-height:17px;color:#A79CC4;">
             Ronini Inc. 2460 Lemoine Ave, Suite 407 #1013, Fort Lee, NJ 07024<br>
             &copy; 2026 Ronini Inc. All rights reserved.
           </td>
